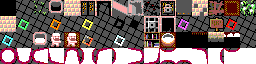
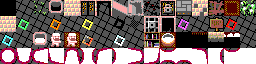
0.58: King's hall pedestals and the city's decorated floor
- The two pedestals in the King of Dwarves' hall show their bricks and gold
  studs instead of a flat grey block
- The city's decorated floor tile shows its darker diamond as a checker, not
  a solid black hole

Claude-Session: https://claude.ai/code/session_01K5kUdBQ9AshjcB3ev2evJa

Changed region(s): [[0.6875, 0.0, 0.75, 0.1875], [0.5, 0.3125, 0.5625, 0.4375]]

diff --git a/watch/tools/convert_regions.py b/watch/tools/convert_regions.py
@@ -41,6 +41,22 @@ for r in range(1, 5):
         for y in range(16):                            # not one flat grey: the dark seams and rivets black, the lit edges light grey
             for x in range(16):
                 v = max(sp[ox + x, oy + y]); tpp[ox + x, oy + y] = ((0, 0, 0) if v < 58 else (170, 170, 170) if v >= 72 else (85, 85, 85)) + (255,)
+    if r == 3:   # 0.58 (owner: "what are these grey squares?"): the King's hall pedestals were one flat grey block, and the
+        # decorated floor's darker diamond snapped to a solid black hole. The pedestal gets its bricks back (light bricks, dark
+        # mortar, the front band kept with its gold studs); the diamond becomes a checker, darker floor rather than a pit
+        src = Image.open(os.path.join(SRC, f"tiles{r}.png")).convert("RGBA"); sp = src.load(); tpp = tp.load()
+        ox, oy = 11 * 16, 0                            # PEDESTAL
+        for y in range(16):
+            for x in range(16):
+                R, G, B, A = sp[ox + x, oy + y]
+                if not A: continue
+                if B > R + 10: tpp[ox + x, oy + y] = ((170, 170, 170) if max(R, G, B) >= 0x58 else (85, 85, 85)) + (255,)
+                elif max(R, G, B) < 0x60: tpp[ox + x, oy + y] = ((85, 85, 85) if max(R, G, B) >= 0x48 else (0, 0, 0)) + (255,)
+        ox, oy = (24 % 16) * 16, (24 // 16) * 16       # EMPTY_DECO: where it differs from EMPTY (cell 1) is the diamond
+        for y in range(16):
+            for x in range(16):
+                if sp[ox + x, oy + y] == sp[16 + x, y]: continue
+                if max(sp[ox + x, oy + y][:3]) <= 0x43: tpp[ox + x, oy + y] = ((0, 0, 0) if (x + y) % 2 == 0 else (85, 85, 85)) + (255,)
     tp.save(os.path.join(OUT, f"tiles_{REGIONS[r]}.png"))
     # water: three shades by brightness (deep, mid, light), each the region's colour lifted onto the Pebble palette
     w = Image.open(os.path.join(SRC, f"water{r}.png")).convert("RGBA")

diff --git a/watch/src/ovl/ui/ui.c b/watch/src/ovl/ui/ui.c
@@ -53,7 +53,7 @@ static void draw_title(GContext *ctx) {                // TitleScene: the dashbo
     if (s_sel == i) { graphics_context_set_fill_color(ctx, GColorWhite); graphics_fill_rect(ctx, GRect(p.origin.x + 12, p.origin.y + 84, p.size.w - 24, 2), 0, 0); }
   }
   draw_mute(ctx);
-  text(ctx, "v0.57", s_font_hud, GColorLightGray, 0, s_h - PBL_IF_ROUND_ELSE(40, 18), PBL_IF_ROUND_ELSE(s_w / 2 + 20, s_w - 4), GTextAlignmentRight);
+  text(ctx, "v0.58", s_font_hud, GColorLightGray, 0, s_h - PBL_IF_ROUND_ELSE(40, 18), PBL_IF_ROUND_ELSE(s_w / 2 + 20, s_w - 4), GTextAlignmentRight);
 }
 
 // RankingsScene: the top six games (Rankings.Record rows: a tomb or the amulet with the place, the result, the hero)
